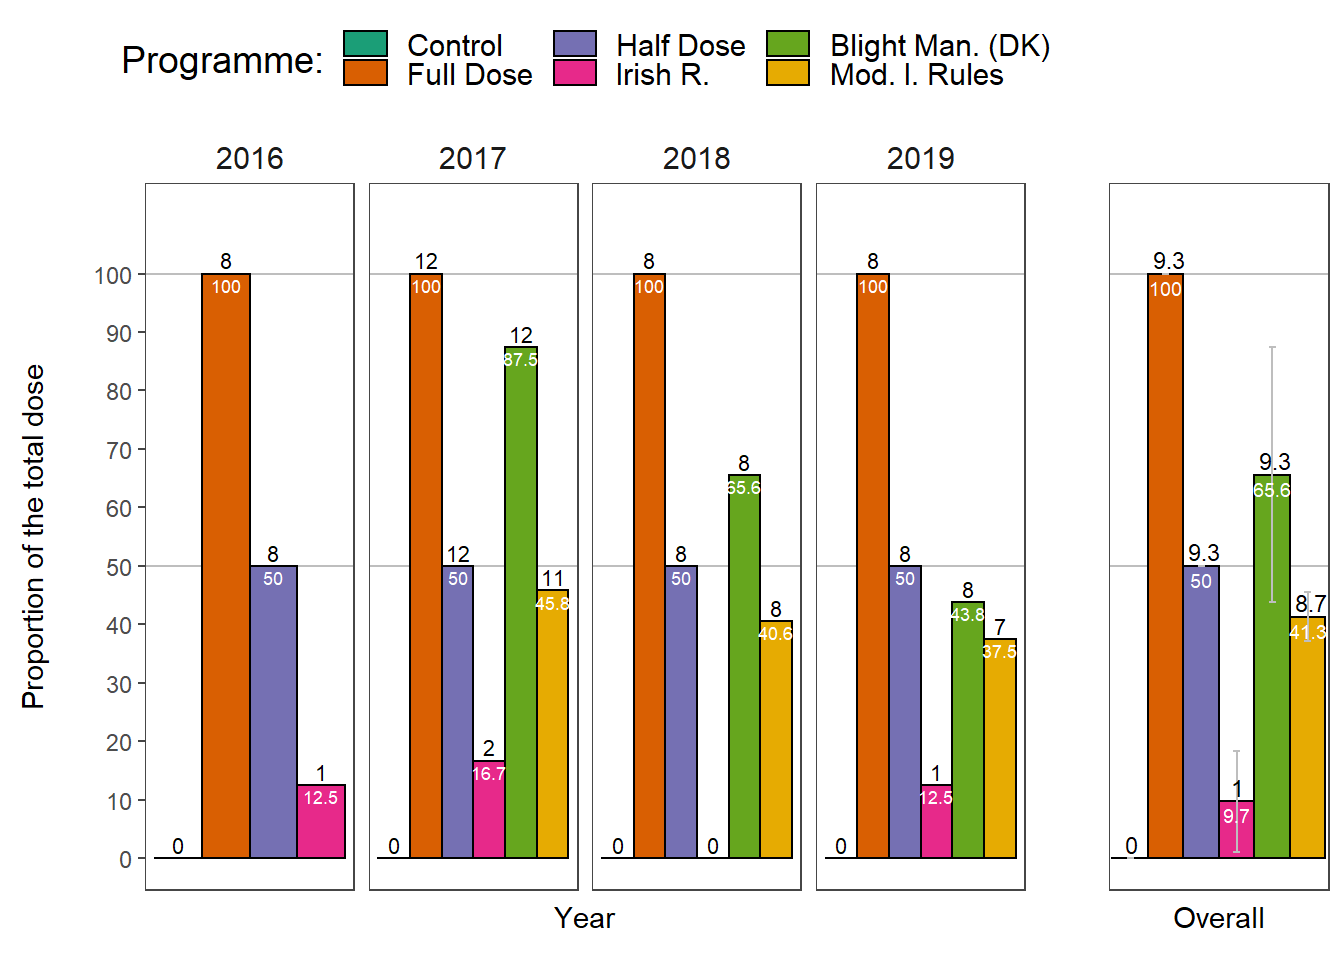
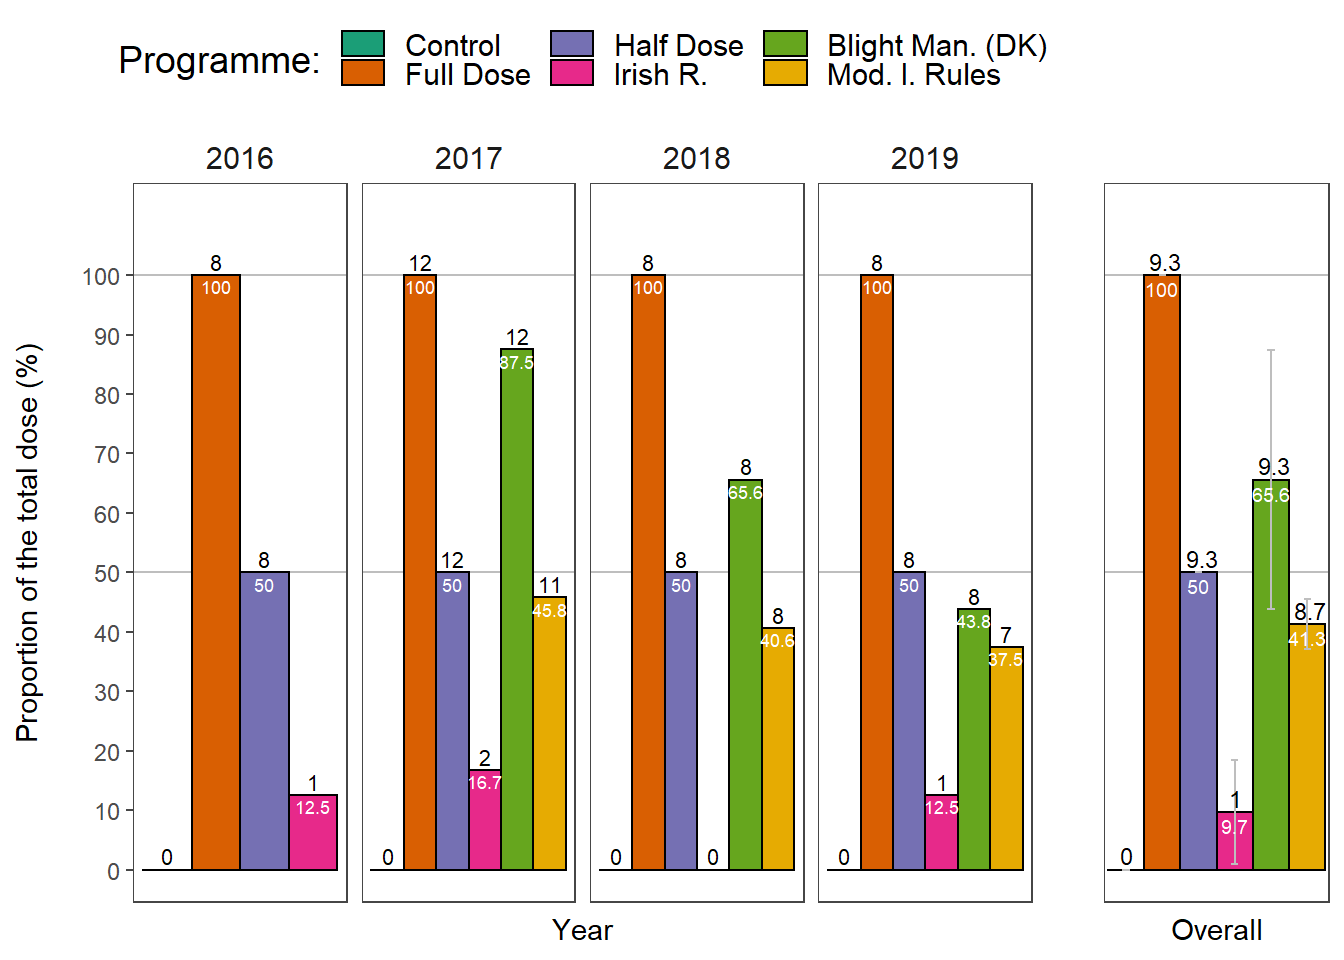
trt

diff --git a/docs/Trt.html b/docs/Trt.html
@@ -558,7 +558,7 @@ group_by(year, treatment) %&gt;%
   theme_article() +
   facet_grid(~ year, scales = &quot;free&quot;) +
   labs(x = &quot;Year&quot;,
-       y = &quot;Proportion of the total dose\n&quot;) +
+       y = &quot;Proportion of the total dose (%)\n&quot;) +
   theme(
     axis.title = element_text(size = 11),
     panel.grid.major = element_blank(),
@@ -665,7 +665,7 @@ p &lt;- egg::ggarrange(p1, p2, ncol = 2, widths = c(4,1))</code></pre>
 ##  collate  English_United States.1252  
 ##  ctype    English_United States.1252  
 ##  tz       Europe/London               
-##  date     2019-11-05                  
+##  date     2019-11-06                  
 ## 
 ## - Packages --------------------------------------------------------------
 ##  package      * version  date       lib source        
@@ -806,7 +806,7 @@ p &lt;- egg::ggarrange(p1, p2, ncol = 2, widths = c(4,1))</code></pre>
 ##  collate  English_United States.1252  
 ##  ctype    English_United States.1252  
 ##  tz       Europe/London               
-##  date     2019-11-05                  
+##  date     2019-11-06                  
 ## 
 ## - Packages --------------------------------------------------------------
 ##  package      * version  date       lib source        
